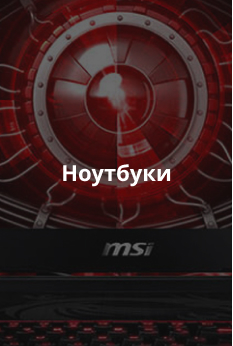
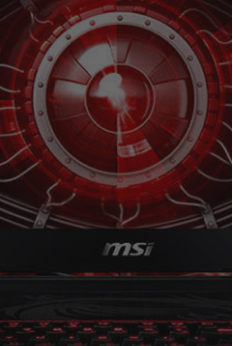
fix(MASTER): markup fixes

Changed region(s): [[0.2704, 0.4624, 0.7511, 0.5491]]

diff --git a/src/pages/HomePage/components/ProductsSection/ProductsSection.tsx b/src/pages/HomePage/components/ProductsSection/ProductsSection.tsx
@@ -1,41 +1,63 @@
 import React from 'react';
 
 import Image, { type StaticImageData } from 'next/image';
+import Link from 'next/link';
 import { ProductCard } from '~/components/ProductCard/ProductCard';
 
 type Props = {
   img: string | StaticImageData;
+  title: string;
+  linkTo: string;
 };
 
 // eslint-disable-next-line react/display-name
-export const ProductsSection: React.FC<Props> = React.memo(({ img }) => {
-  return (
-    <div className="flex gap-6">
-      <Image src={img} alt="Banner" width={200} height={200} />
-
-      <div className="mt-4 grid grid-cols-2 gap-5 md:hidden">
-        {[1, 2].map((item) => (
-          <ProductCard
-            key={item}
-            img="https://content2.rozetka.com.ua/goods/images/big/414340675.jpg"
-            title="RTX 3050"
-            price="8500"
-            href="/"
+export const ProductsSection: React.FC<Props> = React.memo(
+  ({ img, title, linkTo }) => {
+    return (
+      <div className="flex flex-col gap-6 md:flex-row">
+        <div className="relative w-full">
+          <Image
+            src={img}
+            alt="Banner"
+            className="absolute -z-10 h-32 w-full md:h-full"
           />
-        ))}
-      </div>
 
-      <div className="mt-4 hidden grid-cols-6 gap-5 md:grid">
-        {[1, 2, 3, 4, 5, 6].map((item) => (
-          <ProductCard
-            key={item}
-            img="https://content2.rozetka.com.ua/goods/images/big/414340675.jpg"
-            title="RTX 3050"
-            price="8500"
-            href="/"
-          />
-        ))}
+          <div className="absolute left-1/2 top-1/2 z-10 -translate-x-1/2 -translate-y-1/2 text-xl text-white">
+            <h2 className="text-center font-semibold">{title}</h2>
+
+            <Link
+              href={linkTo}
+              className="text-sm underline underline-offset-2"
+            >
+              Дивитися більше
+            </Link>
+          </div>
+        </div>
+
+        <div className="mt-32 grid grid-cols-2 gap-5 md:hidden">
+          {[1, 2].map((item) => (
+            <ProductCard
+              key={item}
+              img="https://content2.rozetka.com.ua/goods/images/big/414340675.jpg"
+              title="Видеокарта MSI PCI-Ex GeForce RTX 3050 Ventus 2X OC 6GB GDDR6 (96bit) (1492/14000) (HDMI, DisplayPort) (RTX 3050 VENTUS 2X 6G OC)"
+              price="8500"
+              href="/"
+            />
+          ))}
+        </div>
+
+        <div className="mt-4 hidden grid-cols-5 gap-5 md:grid">
+          {[1, 2, 3, 4, 5].map((item) => (
+            <ProductCard
+              key={item}
+              img="https://content2.rozetka.com.ua/goods/images/big/414340675.jpg"
+              title="Видеокарта MSI PCI-Ex GeForce RTX 3050 Ventus 2X OC 6GB GDDR6 (96bit) (1492/14000) (HDMI, DisplayPort) (RTX 3050 VENTUS 2X 6G OC)"
+              price="8500"
+              href="/"
+            />
+          ))}
+        </div>
       </div>
-    </div>
-  );
-});
+    );
+  },
+);

diff --git a/src/app/page.tsx b/src/app/page.tsx
@@ -10,13 +10,35 @@ import { Container } from '~/ui/Container';
 import banner from '../../public/assets/banner.jpg';
 import brands from '../../public/assets/brands.jpg';
 import section1 from '../../public/assets/homeSections/1.jpg';
+import section2 from '../../public/assets/homeSections/2.jpg';
+import section3 from '../../public/assets/homeSections/3.jpg';
 
 const Home: React.FC = React.memo(() => {
+  const sections = [
+    {
+      img: section1,
+      title: 'Ноутбуки',
+      linkTo: '/',
+    },
+    {
+      img: section2,
+      title: 'ПК',
+      linkTo: '/',
+    },
+    {
+      img: section3,
+      title: 'Монітори',
+      linkTo: '/',
+    },
+  ];
+
   return (
     <div className="flex flex-col gap-8">
       <Container className="mt-6">
         <Image src={banner} alt="banner" />
       </Container>
+
+      <Features />
 
       <Container>
         <div className="flex items-center justify-between">
@@ -27,7 +49,7 @@ const Home: React.FC = React.memo(() => {
           </Link>
         </div>
 
-        <div className="mt-4 grid grid-cols-2 gap-5 md:grid-cols-3 2xl:grid-cols-5">
+        <div className="mt-4 grid grid-cols-2 gap-5 md:grid-cols-5">
           {[1, 2, 3, 4, 5].map((item) => (
             <ProductCard
               key={item}
@@ -41,16 +63,19 @@ const Home: React.FC = React.memo(() => {
       </Container>
 
       <Container className="flex flex-col gap-8">
-        <ProductsSection img={section1} />
-        <ProductsSection img={section1} />
-        <ProductsSection img={section1} />
+        {sections.map((section) => (
+          <ProductsSection
+            key={section.title}
+            img={section.img}
+            title={section.title}
+            linkTo={section.linkTo}
+          />
+        ))}
       </Container>
 
       <Container className="mt-6 flex justify-center">
         <Image src={brands} alt="brands" />
       </Container>
-
-      <Features />
     </div>
   );
 });

diff --git a/src/components/ProductCard/ProductCard.tsx b/src/components/ProductCard/ProductCard.tsx
@@ -15,7 +15,7 @@ export const ProductCard: React.FC<Props> = React.memo(
   ({ img, title, price, href }) => {
     return (
       <Link
-        className="border-color-six grid grid-rows-2 justify-items-center gap-3 border-2 p-4 rounded-lg"
+        className="border-color-six grid grid-rows-[min-content_1fr] justify-items-center gap-6 border-2 p-4 rounded-lg"
         href={href}
       >
         <Image src={img} alt={title} width={150} height={150} />
